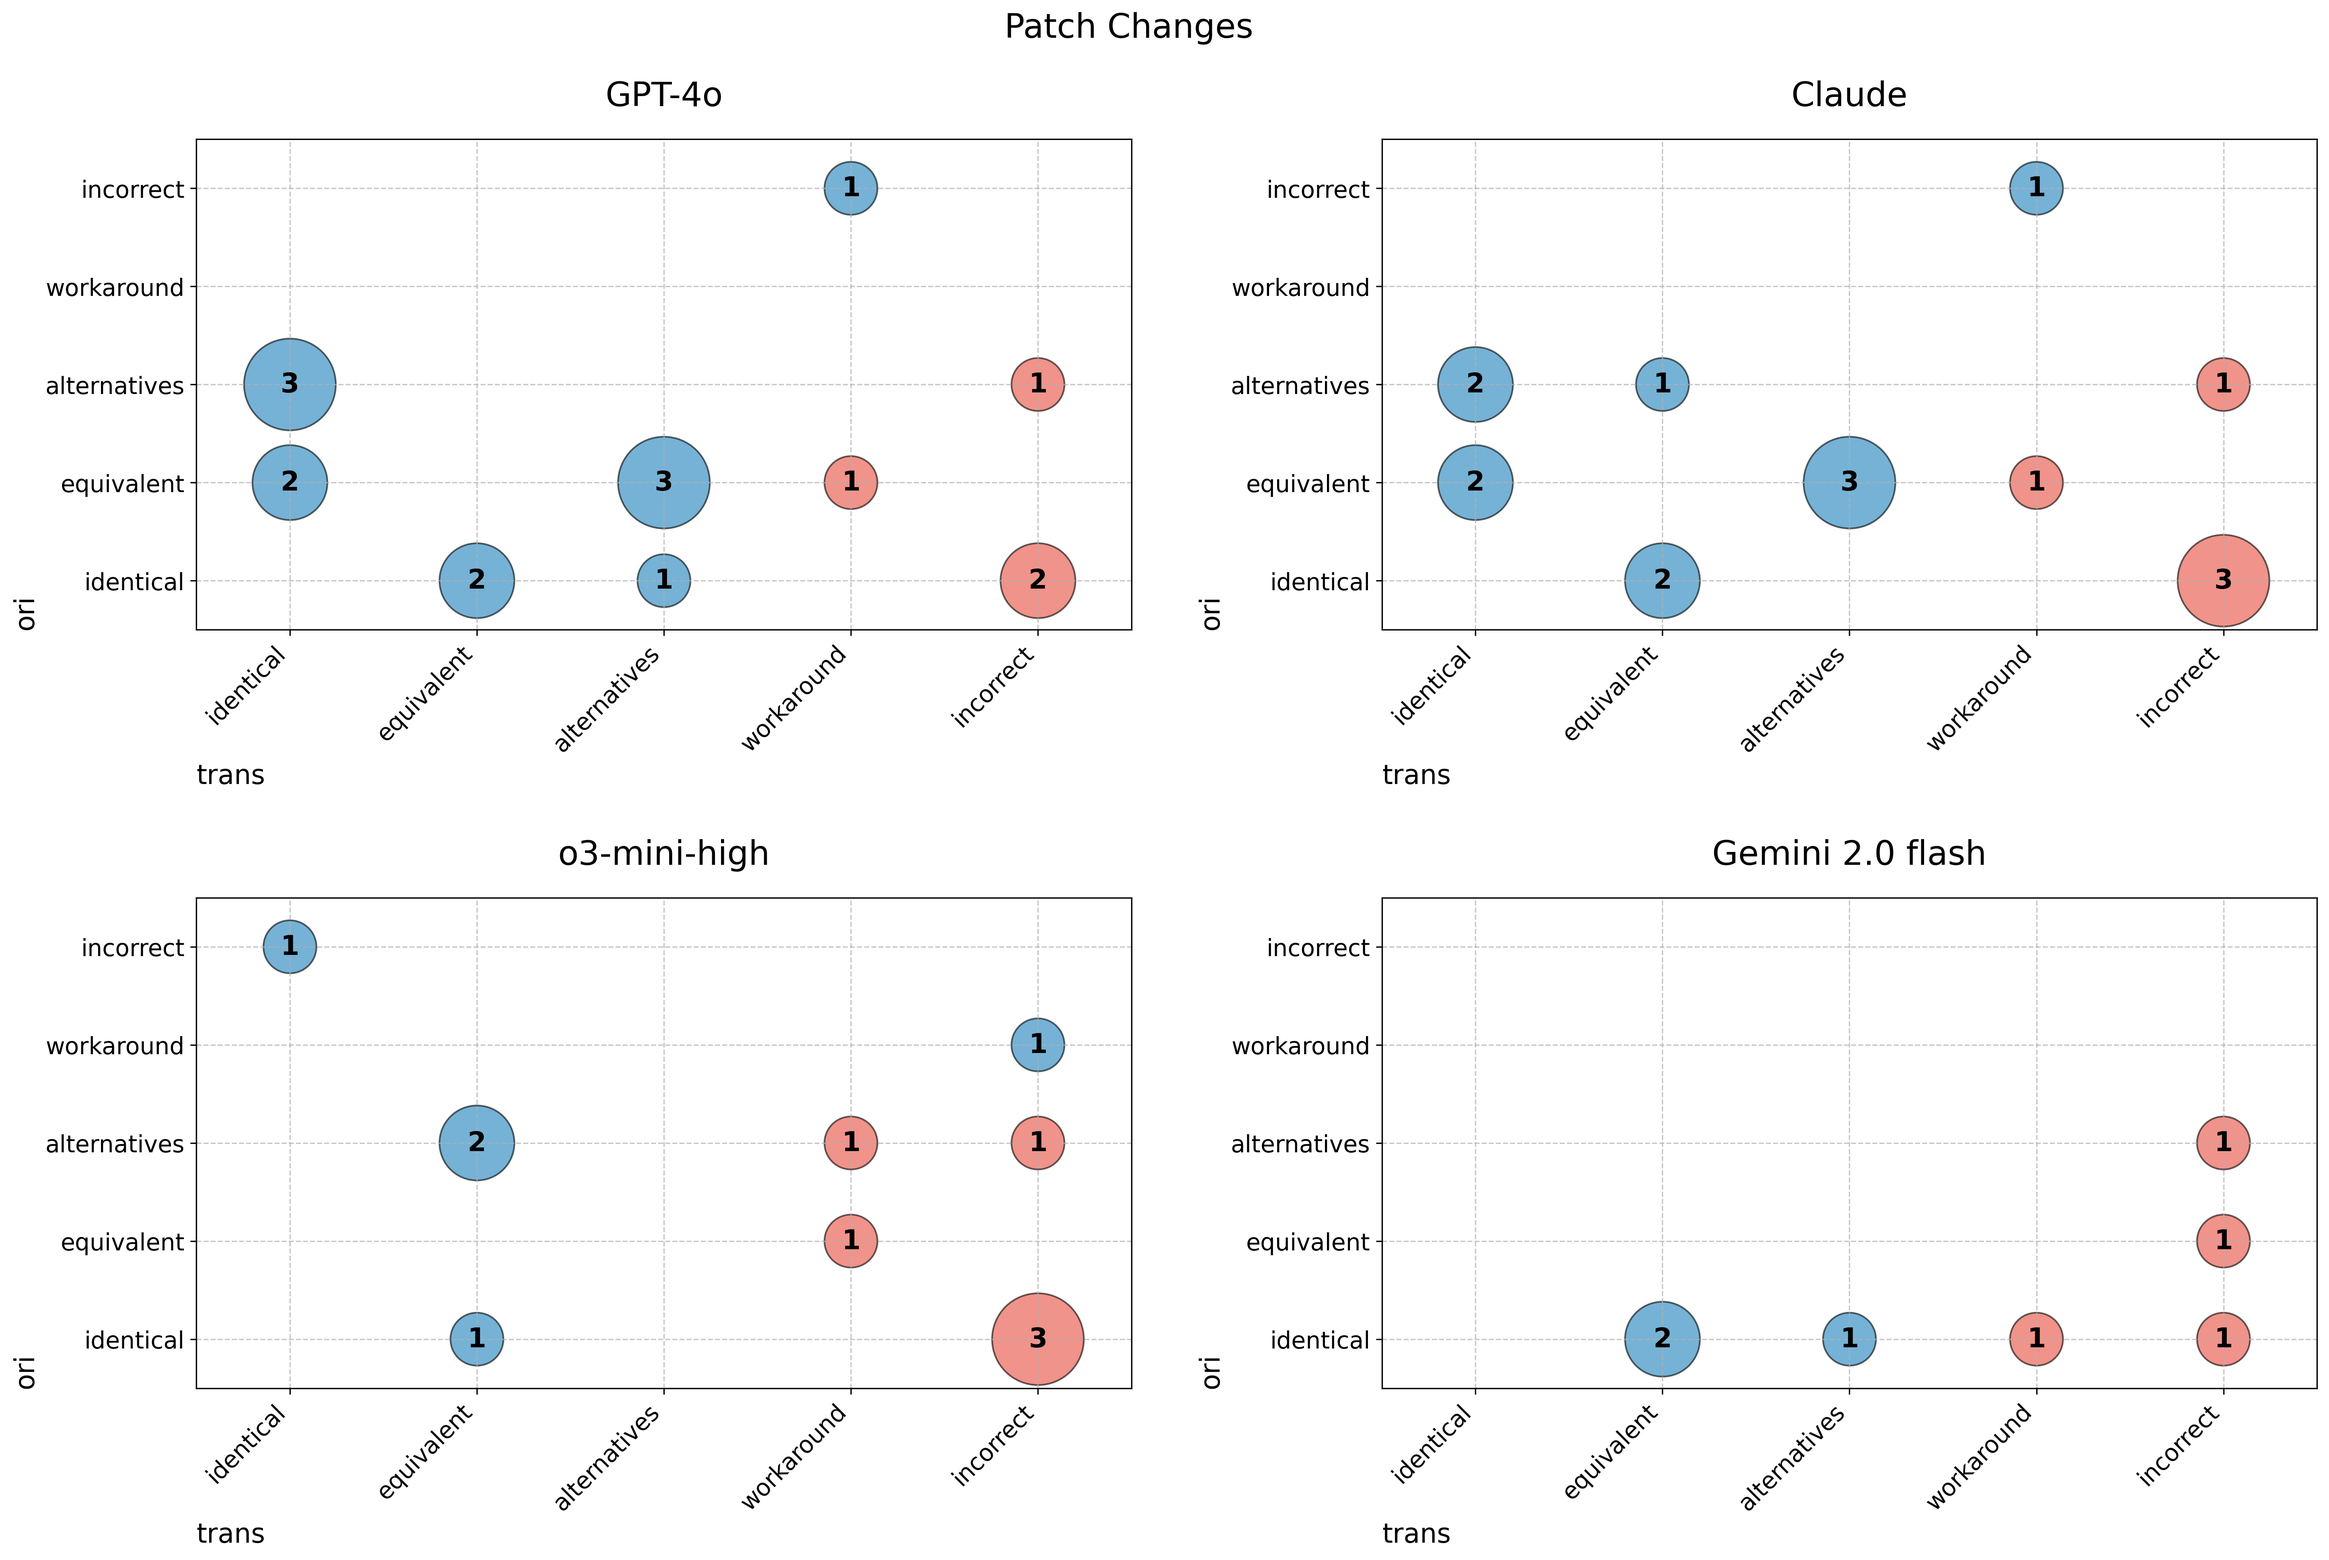
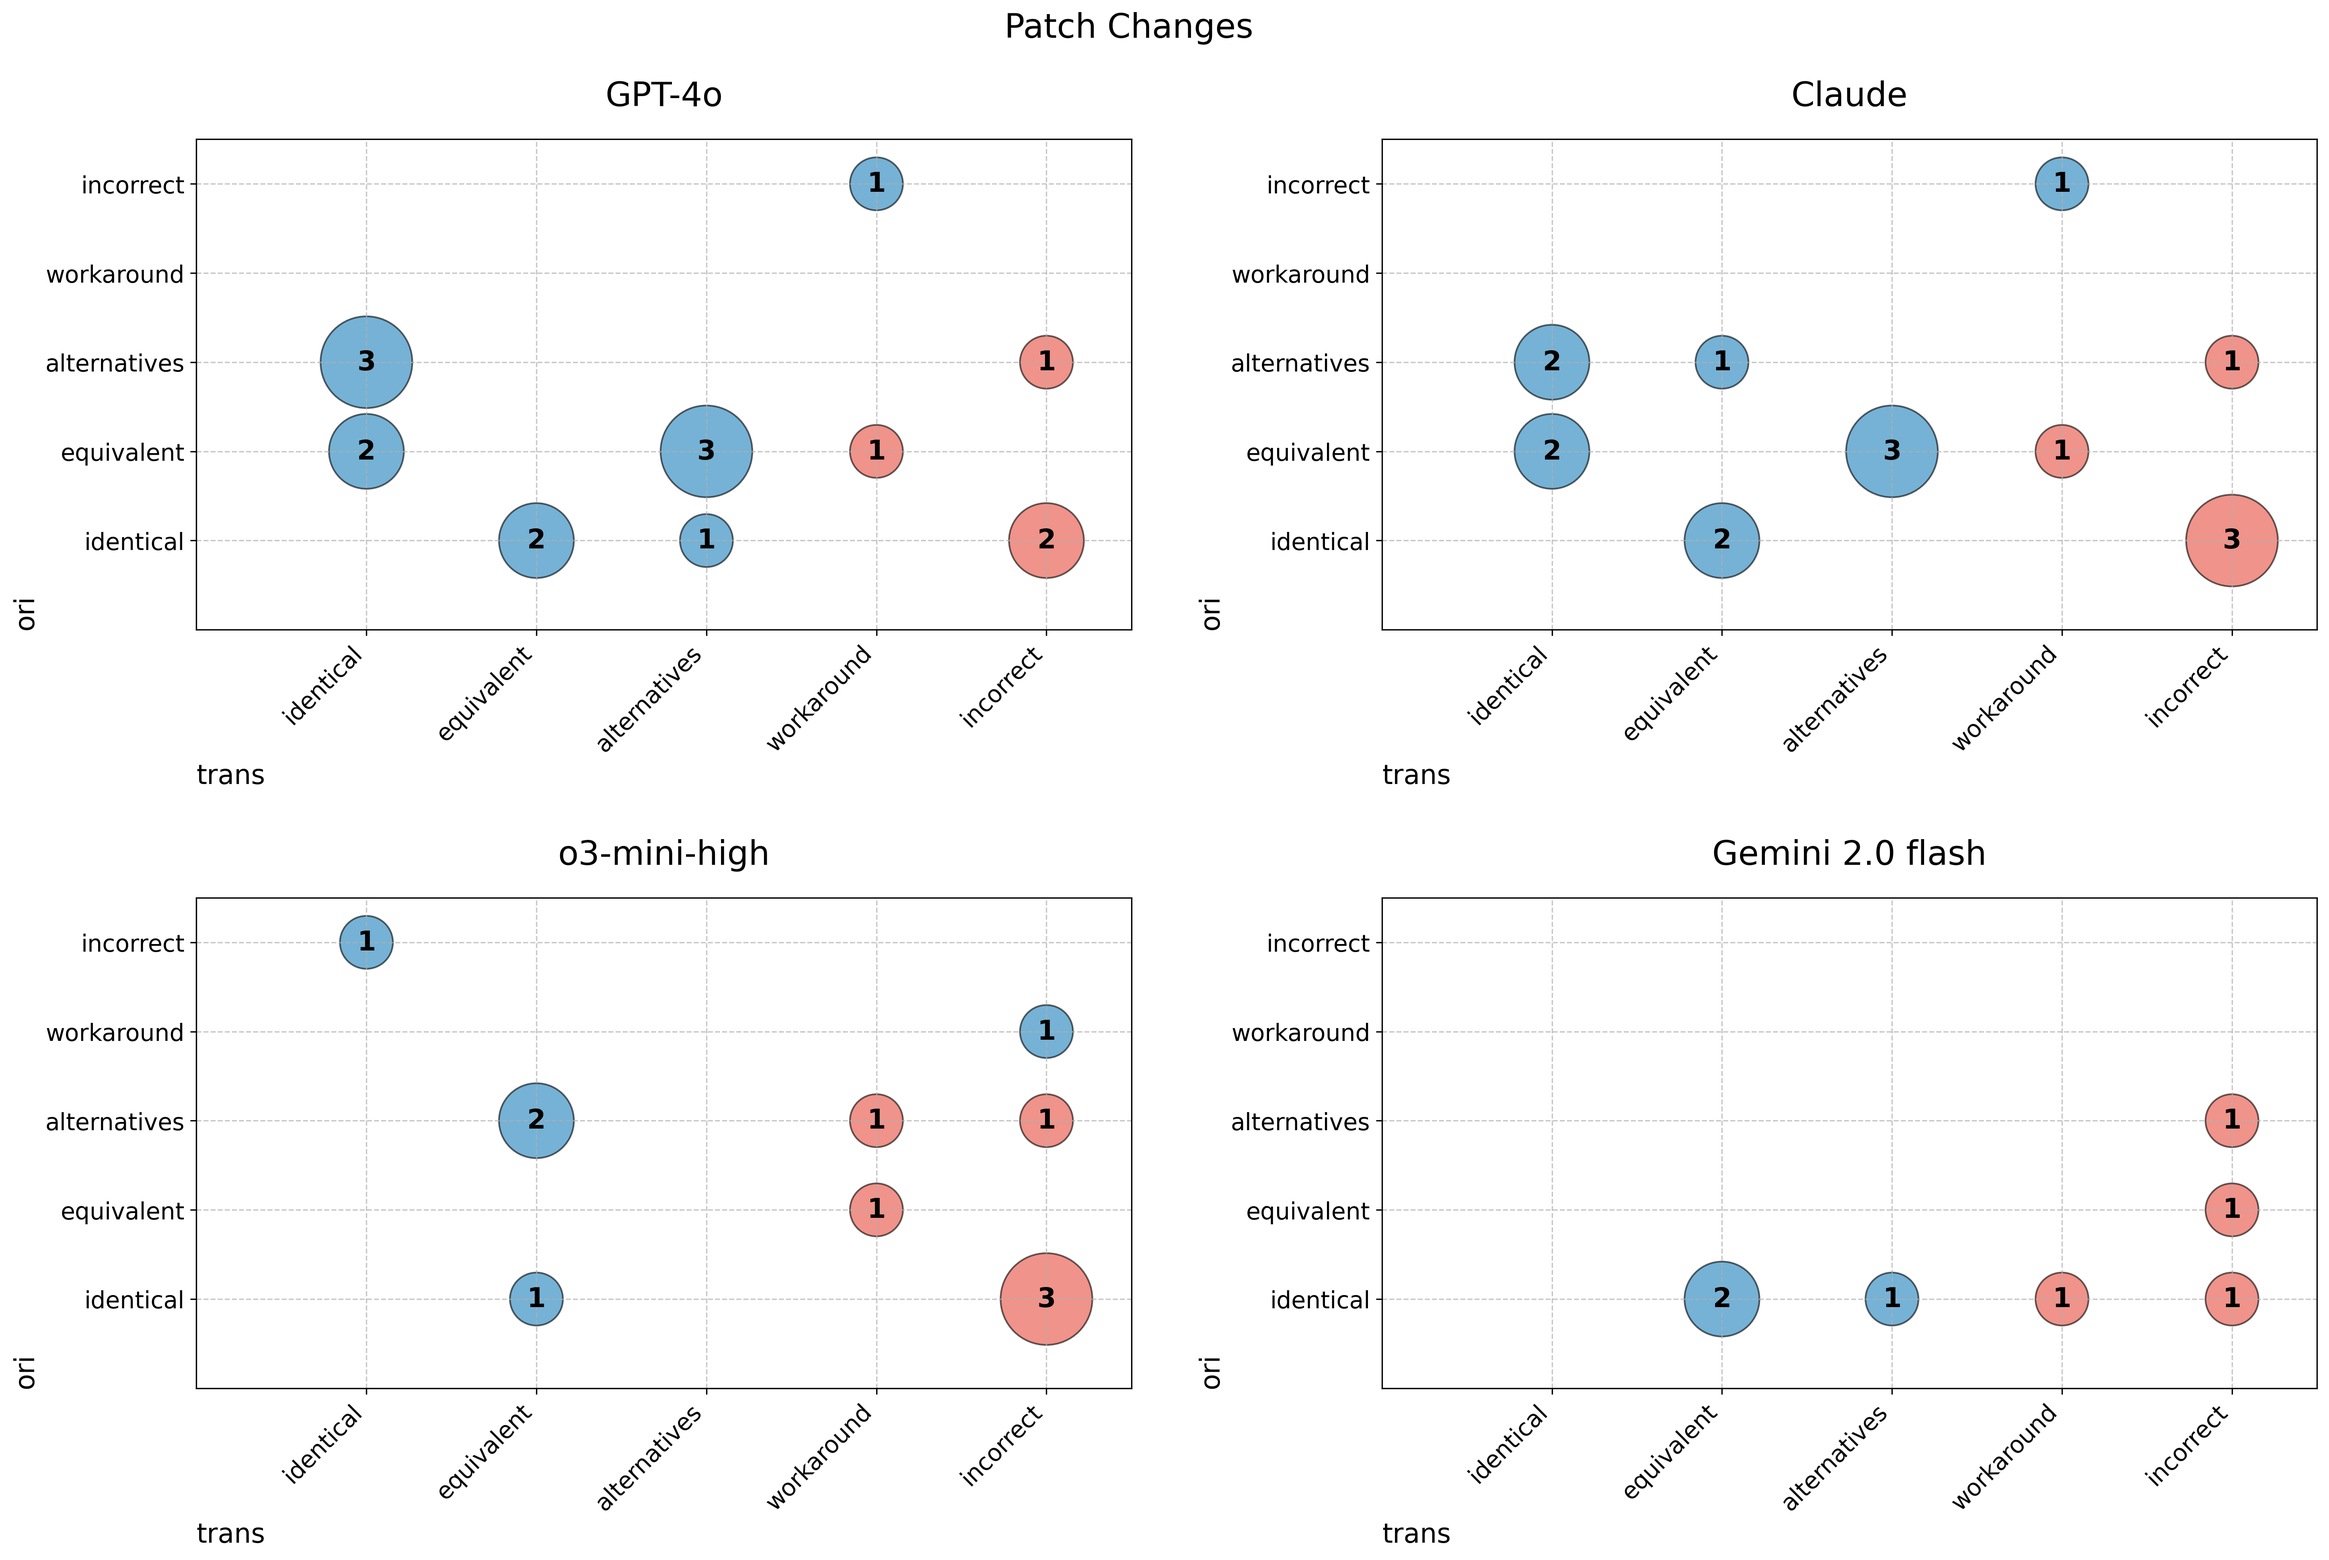
bubblechart

diff --git a/charts/bubble.py b/charts/bubble.py
@@ -102,8 +102,8 @@ for ax, (title, data) in zip(axes.flat, datasets.items()):
     ax.grid(True, linestyle='--', alpha=0.7)
     
     # 축 범위 명시적 설정
-    ax.set_xlim(-0.5, len(x_labels)-0.5)
-    ax.set_ylim(-0.5, len(y_labels)-0.5)
+    ax.set_xlim(-1.0, len(x_labels)-0.5)
+    ax.set_ylim(-1.0, len(y_labels)-0.5)
     
     # 여백 조정
     ax.margins(0.2)
